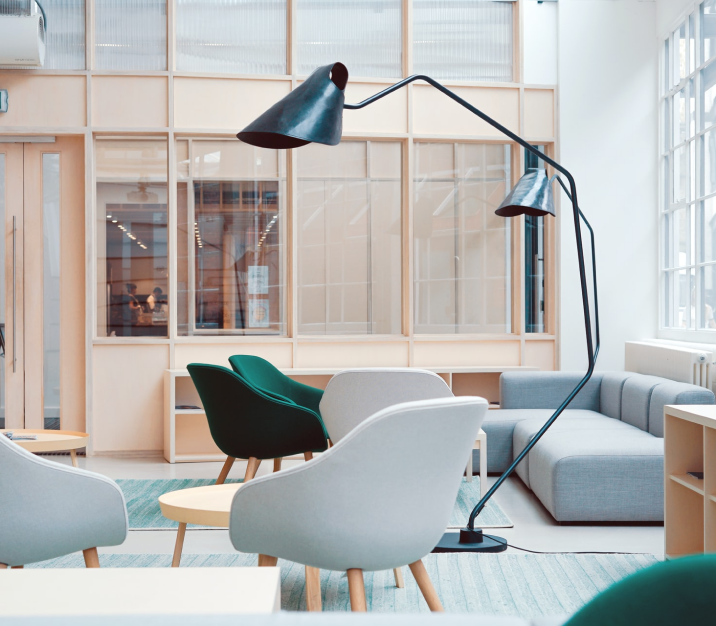
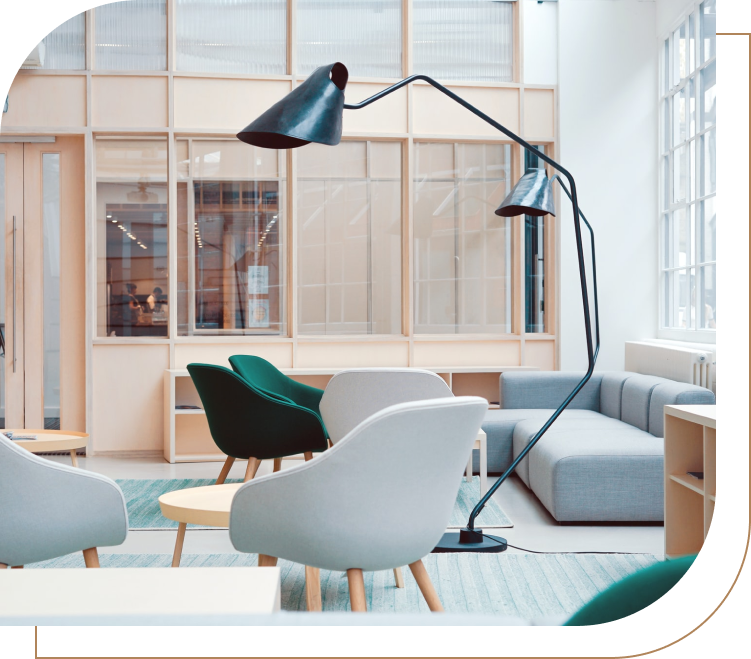
Fourth block finished

diff --git a/index.html b/index.html
@@ -11,11 +11,11 @@
 </head>
 <body>
     <div class="container">
-        <header class="d-flex flex-wrap justify-content-center py-3 mb-4">
-            <a href="/" class="d-flex mb-3 mb-md-0 me-md-auto">
-                <img src="images/logo.png" class="logo">
+        <header class="header d-flex flex-wrap justify-content-center">
+            <a href="/" class="d-flex align-items-center col-md-3 mb-2 mb-md-0 text-dark text-decoration-none">
+                <img class="bi" src="images/logo.png">
             </a>
-            <ul class="nav nav-pills align-content-center">
+            <ul class="nav nav-pills align-content-center justify-content-center">
                 <li><a class="nav active" href="">HOME</a></li>
                 <li><a class="nav" href="">PROJECT</a></li>
                 <li><a class="nav" href="">SERVICES</a></li>
@@ -29,18 +29,95 @@
             </a>
         </header>
         <main>
-            <div class="row flex-lg-row-reverse align-items-center g-5 py-5">
-                <div class="col-10 col-sm-8 col-lg-6">
-                    <img class="block-image image-bordered" src="images/first.png" alt="">
-                    <div class="image-background"></div>
+            <div class="first-block">
+                <div class="row flex-lg-row-reverse align-items-center g-5">
+                    <div class="col-10 col-sm-8 col-lg-6">
+                        <img class="d-block mx-lg-auto img-fluid" src="images/first.png" alt="">
+                    </div>
+                    <div class="col-6">
+                        <div class="ad">MODERN INTREIOR</div>
+                        <div class="title">Create Your Interior Design.</div>
+                        <div class="description">Lorem ipsum dolor sit amet, consectetur adipiscing elit, sed do eiusmod tempor incididunt ut labore et dolore magna aliqua. Ut enim ad minim veniam, quis nostrud exercitation.</div>
+                        <a href="/" class="contact bordered">
+                            CONTACT
+                        </a>
+                    </div>
                 </div>
-                <div class="col-lg-6">
-                    <div class="ad">MODERN INTREIOR</div>
-                    <div class="title">Create Your Interior Design.</div>
-                    <div class="description">Lorem ipsum dolor sit amet, consectetur adipiscing elit, sed do eiusmod tempor incididunt ut labore et dolore magna aliqua. Ut enim ad minim veniam, quis nostrud exercitation.</div>
-                    <a href="/" class="contact bordered">
-                        CONTACT
-                    </a>
+            </div>
+            <div class="second-block">
+                <div class="ad">WHAT WE DO</div>
+                <div class="d-flex flex-row justify-content-between">
+                    <div class="block-title">Our Service</div>
+                    <div class="circles d-flex">
+                        <div class="circle-white me-3">
+                            <img src="images/arrow-left.svg" alt=""></div>
+                        <div class="circle-green">
+                            <img src="images/arrow-right.svg" alt="">
+                        </div>
+                    </div>
+                </div>
+                <div class="row row-cols-1 row-cols-sm-1 row-cols-md-2 row-cols-xxl-3 justify-content-between">
+                    <div class="col card-block">
+                        <div class="d-flex flex-row card-white">
+                            <img class="card-icon" src="images/interior.svg" alt="">
+                            <div>
+                                <div class="card-title">Interior Design</div>
+                                <div class="card-text">Lorem ipsum dolor amet consectetur adipiscing elit sed eiusmod tempor incididunt ut labore.</div>
+                            </div>
+                        </div>
+                    </div>
+                    <div class="col card-block">
+                        <div class="d-flex flex-row card-brown">
+                            <img class="card-icon" src="images/acchitecture.svg" alt="">
+                            <div>
+                                <div class="card-title">Architecture</div>
+                                <div class="card-text">Lorem ipsum dolor amet consectetur adipiscing elit sed eiusmod tempor incididunt ut labore.</div>
+                            </div>
+                        </div>
+                    </div>
+                    <div class="col card-block">
+                        <div class="flex-row card-white d-none d-xxl-flex">
+                            <img class="card-icon" src="images/palnning.svg" alt="">
+                            <div>
+                                <div class="card-title">Planning</div>
+                                <div class="card-text">Lorem ipsum dolor amet consectetur adipiscing elit sed eiusmod tempor incididunt ut labore.</div>
+                            </div>
+                        </div>
+                    </div>
+                </div>
+            </div>
+            <div class="third-block">
+                <div class="row flex-lg-row align-items-center g-5">
+                    <div class="col-10 col-sm-8 col-lg-6">
+                        <img class="d-block mx-lg-auto img-fluid" src="images/second.png" alt="">
+                    </div>
+                    <div class="col-6">
+                        <div class="ad">ABOUT US</div>
+                        <div class="block-title">Interioris The Will of An Epoch Mextreo</div>
+                        <div class="description">There are many variations of passages of Lorem Ipsum available,
+                            but the majority have suffered alteration in some form injected
+                            humour, or randomised words which don't look even slightly
+                            believable.If you are going to use a passage of Lorem Ipsum,
+                            sure there isn't anything embarrassing hidden the middleof text.
+                            All the Lorem Ipsum generators on the Internettend to repeat
+                            predefined chunks as necessary,making this the first true
+                            generator on the Internet.</div>
+                        <a href="/" class="contact bordered">
+                            LEARN MORE
+                        </a>
+                    </div>
+                </div>
+            </div>
+            <div class="fourth-block">
+                <div class="row flex-lg-row-reverse align-items-center g-5">
+                    <div class="col-10 col-sm-8 col-lg-6">
+                        <img class="d-block mx-lg-auto img-fluid" src="images/third.png" alt="">
+                    </div>
+                    <div class="col-6">
+                        <img class="d-block img-fluid" src="images/wooden_twenty.png" alt="">
+                        <div class="block-title my-35">Years Of Successful Working The Market</div>
+                        <a href="/" class="contact bordered">LEARN MORE</a>
+                    </div>
                 </div>
             </div>
         </main>

diff --git a/styles/style.css b/styles/style.css
@@ -1,15 +1,18 @@
 @import url('https://fonts.googleapis.com/css2?family=Open+Sans:wght@300;400;500;700&display=swap');
+@import url('https://fonts.googleapis.com/css2?family=Poppins:wght@500;600&display=swap');
 
-img.logo {
-    margin: 34px;
+.header {
+    margin-top: 34px;
+    margin-bottom: 94px;
 }
 
 a.nav {
     color: rgb(2, 2, 2);
     font-size: 16px;
     font-family: 'Open Sans', sans-serif;
+    font-weight: bold;
     padding: 10px;
-    margin: 0px 10px;
+    margin: 0px 5px;
 }
 
 a.nav.active {
@@ -40,9 +43,8 @@ a.contact {
     color: white;
     font-size: 16px;
     font-family: 'Open Sans', sans-serif;
-    font-weight: 500;
-    padding: 3px 20px;
-    margin: 0px 10px;
+    font-weight: 700;
+    padding: 5px 28px;
     align-self: center;
     border: 3px solid rgba(55, 128, 107, 1);
 }
@@ -52,20 +54,27 @@ a.contact:link {
     background: rgba(55, 128, 107, 1);
 }
 
-
 .ad {
-    margin-bottom: 12px;
     font-family: 'Open Sans', sans-serif;
     font-size: 20px;
-    font-weight: lighter;
+    font-weight: 600;
+    color: rgb(100, 100, 100);
 }
 
 .title {
     margin-bottom: 23px;
     font-size: 72px;
     line-height: 100%;
-    font-family: 'Open Sans', sans-serif;
-    font-weight:bold;
+    font-family: 'Poppins', sans-serif;
+    font-weight: bold;
+}
+
+.block-title {
+    margin-bottom: 50px;
+    font-size: 48px;
+    line-height: 100%;
+    font-family: 'Poppins', sans-serif;
+    font-weight: medium;
 }
 
 .description {
@@ -76,28 +85,99 @@ a.contact:link {
 }
 
 .bordered {
-    margin: 1px;
     padding: 1px 4px;
-    border-radius: 15px 0px ;
+    border-radius: 20px 0px ;
 }
 
 .image-bordered {
     margin: 1px;
     padding: 1px 4px;
-    border-radius: 20% 0px;
+    border-radius: 140px 0px;
 }
 
-.block-image {
-    width: 550px;
-    height: 475px;
-    position: absolute;
+.card-block {
+    max-width: 1000px;
 }
 
-.image-background {
-    width: 550px;
-    height: 475px;
-    border-radius: 20% 0px;
-    margin-top: 33px;
-    margin-left: 35px;
-    border: 3px solid rgba(202, 168, 146, 1);
+.card-white {
+    padding: 40px 21px 40px 35px;
+    box-shadow: 0px 8px 20px rgba(0, 0, 0, 0.14);
+    border-radius: 60px 0px;
+    margin: 15px 0px;
+}
+
+.card-brown {
+    padding: 40px 21px 40px 35px;
+    background-color: rgba(202, 168, 146, 1);
+    color: white;
+    box-shadow: 0px 8px 20px rgba(0, 0, 0, 0.14);
+    border-radius: 60px 0px;
+    margin: 15px 0px;
+}
+
+img.card-icon {
+    height: 40px;
+    width: 40px;
+    margin-right: 20px;
+}
+
+.card-title {
+    font-size: 24px;
+    font-family: 'Open Sans', sans-serif;
+    font-weight: bold;
+    margin: 0px;
+}
+
+.card-text {
+    font-family: 'Open Sans', sans-serif;
+    font-style: normal;
+    font-weight: 400;
+    font-size: 16px;
+    line-height: 28px;
+    letter-spacing: -0.01em;
+}
+
+.circles {
+    margin-right: 7px;
+}
+
+.circle-green {
+    width: 30px;
+    height: 30px;
+    align-self: center;
+    border-radius: 50%;
+    background: rgba(55, 128, 107, 1);
+    box-shadow: -1px 3px 10px rgba(0, 0, 0, 0.3);
+    text-align: center;
+    color: white;
+}
+
+.circle-white {
+    width: 30px;
+    height: 30px;
+    align-self: center;
+    border-radius: 50%;
+    background: rgb(255, 255, 255);
+    box-shadow: -1px 3px 10px rgba(0, 0, 0, 0.3);
+    text-align: center;
+}
+
+.first-block {
+    margin-bottom: 115px;
+}
+
+.second-block {
+    margin-bottom: 189px;
+}
+
+.third-block {
+    margin-bottom: 224px;
+}
+
+.fourth-block {
+    margin-bottom: 224px;
+}
+
+.my-35 {
+    margin: 35px 0px;
 }
